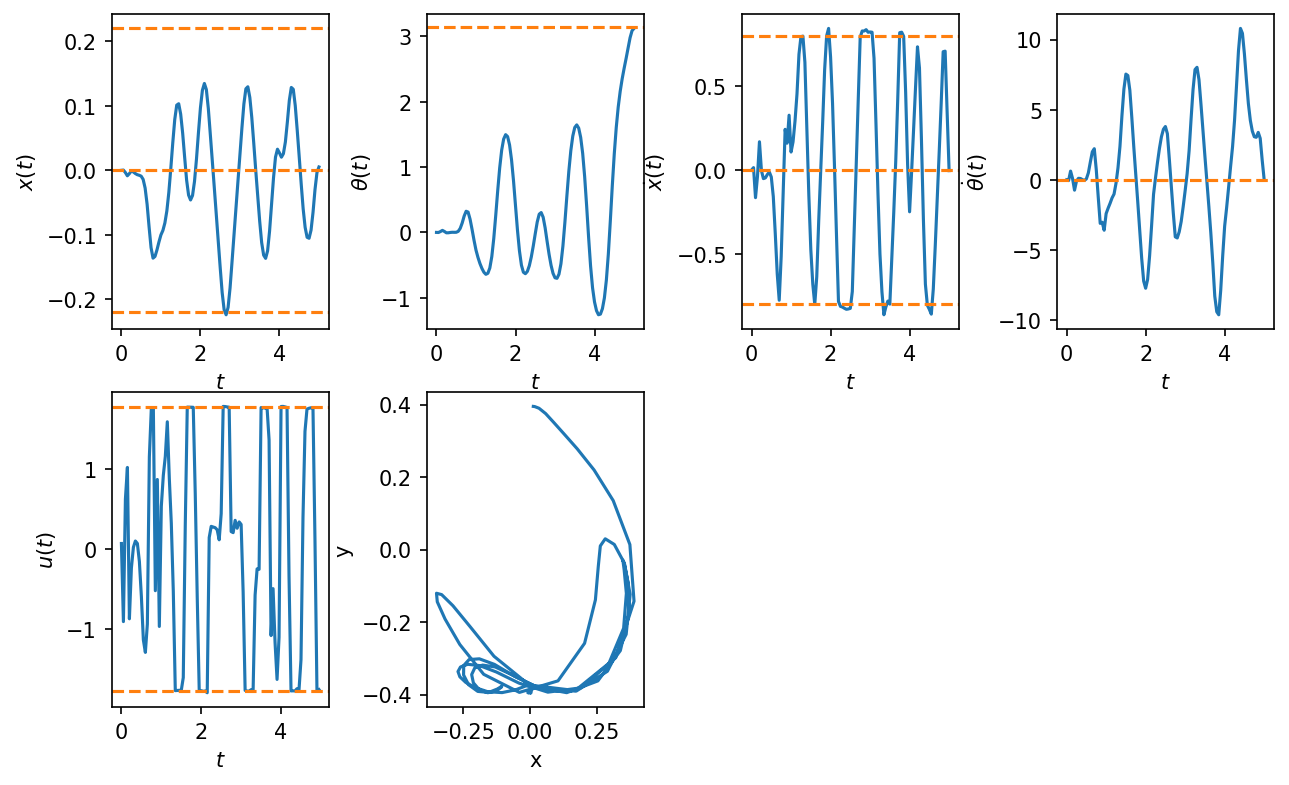
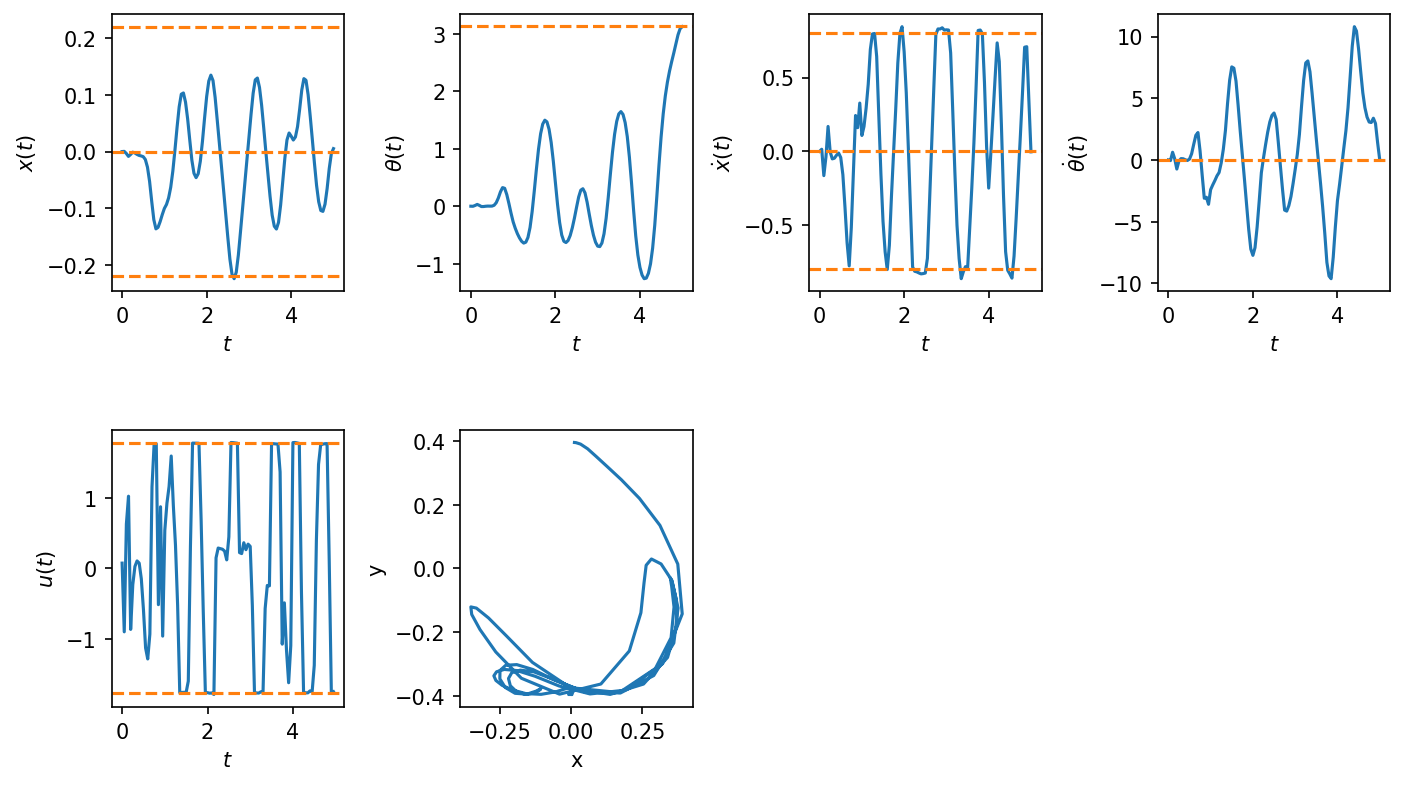
Fix subplot spacing.

diff --git a/torch/run_cartpole_force.py b/torch/run_cartpole_force.py
@@ -57,8 +57,8 @@ def main():
     s, u = solver.rollout(s, u)
 
     # Plot state and control trajectories
-    fig, ax = plt.subplots(2, n, dpi=150, figsize=(10, 6))
-    plt.subplots_adjust(wspace=0.45)
+    fig, ax = plt.subplots(2, n, dpi=150, figsize=(11, 6))
+    plt.subplots_adjust(wspace=0.5, hspace=0.5)
     labels_s = (r"$x(t)$", r"$\theta(t)$", r"$\dot{x}(t)$", r"$\dot{\theta}(t)$")
     labels_u = (r"$u(t)$",)
     for i in range(n):

diff --git a/torch/run_cartpole_velocity.py b/torch/run_cartpole_velocity.py
@@ -57,8 +57,8 @@ def main():
     s, u = solver.rollout(s, u)
 
     # Plot state and control trajectories
-    fig, ax = plt.subplots(2, n, dpi=150, figsize=(10, 6))
-    plt.subplots_adjust(wspace=0.45)
+    fig, ax = plt.subplots(2, n, dpi=150, figsize=(11, 6))
+    plt.subplots_adjust(wspace=0.5, hspace=0.5)
     labels_s = (r"$x(t)$", r"$\theta(t)$", r"$\dot{x}(t)$", r"$\dot{\theta}(t)$")
     labels_u = (r"$u(t)$",)
     for i in range(n):
